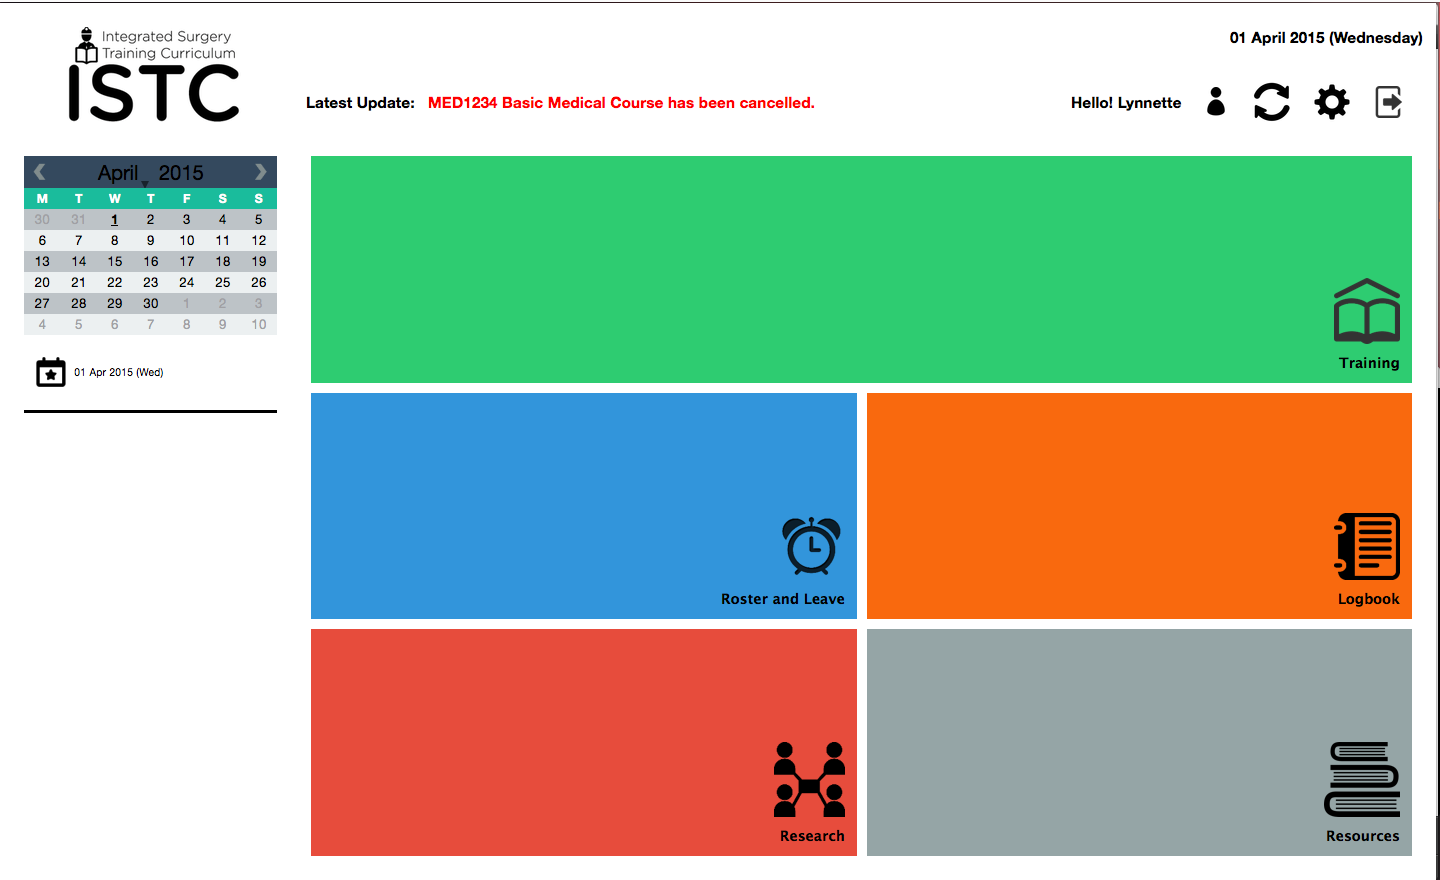
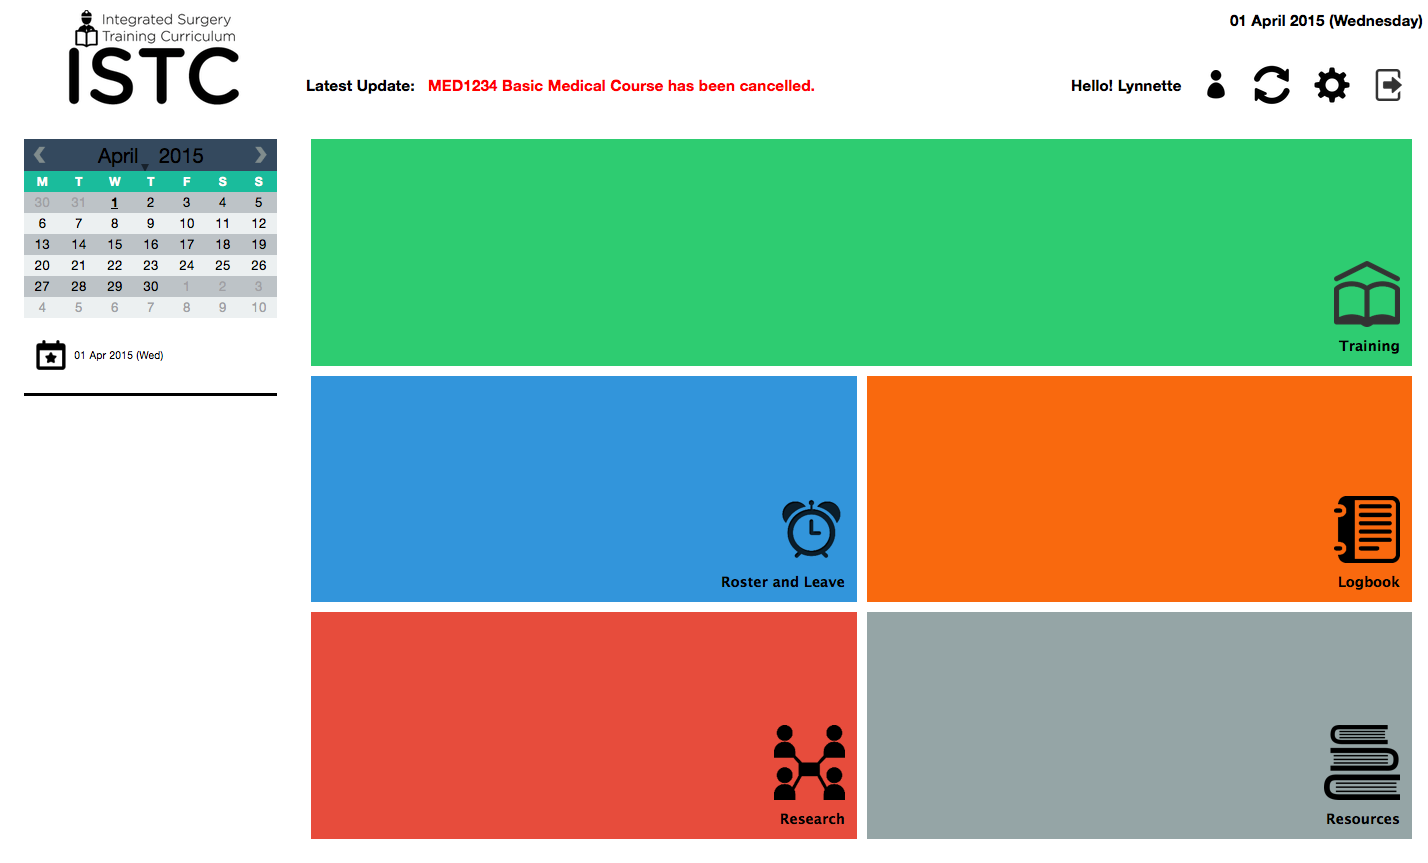
Rescaled the photos

Changed region(s): [[0.0, 0.0, 1.0, 1.0], [0.0, 0.3917, 0.1849, 0.482], [0.2157, 0.0904, 0.5854, 0.1205]]

diff --git a/index.html b/index.html
@@ -86,7 +86,7 @@ http://www.templatemo.com/tm-477-puzzle
            <p>The Project 'GoTnT' (Go Trip and Travel), which is a travel assistant aimed to make the trip planning fun and convenient as well as to capture travellers’ precious and happy moments automatically, is initiated to join the Microsoft Imagine Cup</p>
            <p>The backend is built using the ASP.net with Entity Framework and the app is delevoped using the IONIC framework.</p>
            <p>We sourced and secured Microsoft Azure Sponsorship with a value of USD $10,000.</p>
-           <p>We are the Singapore Finalists for the Microsoft Imagine Cup.</p>
+           <p>We are currently the Singapore Finalists for the Microsoft Imagine Cup. (Still Ongoing)</p>
            <div>
                <a href="https://www.facebook.com/gotnt.travame/" target="_blank" class="btn dark-blue-bordered-btn normal-btn">Facebook Page</a>
                <a href="https://www.youtube.com/watch?v=-9zEHW6eius" target="_blank" class="btn green-btn normal-btn">Demo Video</a>
@@ -97,7 +97,7 @@ http://www.templatemo.com/tm-477-puzzle
 
    <section class="col-md-12 content" id="istc">
        <div class="col-lg-6 col-md-6 col-md-push-6 content-item">
-           <img src="images/rsz_1rsz_2rsz_1istc.png" alt="Image" class="tm-image">
+           <img src="images/rsz_11rsz_2istc.png" class="tm-image">
        </div>
        <div class="col-lg-6 col-md-6 col-md-pull-6 content-item background flexbox">
            <h2 class="section-title">ISTC</h2>
